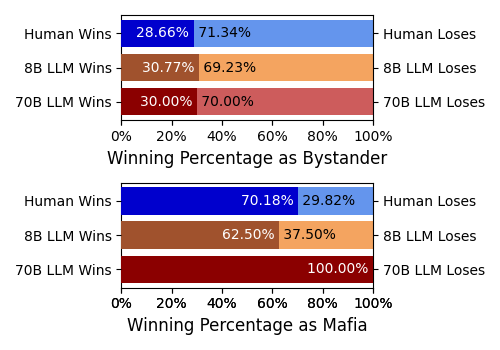
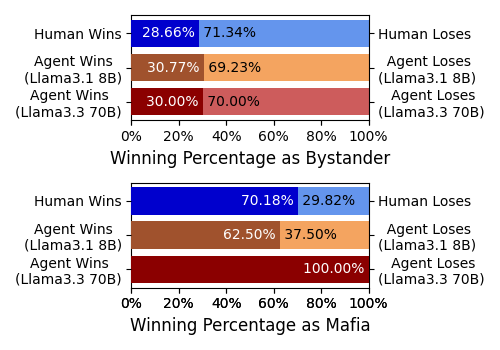
improved LLM agent references in plots

diff --git a/analyze.py b/analyze.py
@@ -818,10 +818,10 @@ def plot_timing_diffs_histogram(human_timing_diffs, llm_timing_diffs, title,
     max_x = max(human_timing_diffs + llm_timing_diffs)
     if plot_separately_by_base_models:
         classes = [("Human", human_timing_diffs, "blue"),
-                   ("8B LLM", llm_timing_diffs[:NUM_GAMES_WITH_8B_MODEL], "orange"),
-                   ("70B LLM", llm_timing_diffs[NUM_GAMES_WITH_8B_MODEL:], "red")]
+                   ("Agent (Llama3.1 8B)", llm_timing_diffs[:NUM_GAMES_WITH_8B_MODEL], "orange"),
+                   ("Agent (Llama3.3 70B)", llm_timing_diffs[NUM_GAMES_WITH_8B_MODEL:], "red")]
     else:
-        classes = [("Human", human_timing_diffs, "blue"), ("LLM", llm_timing_diffs, "red")]
+        classes = [("Human", human_timing_diffs, "blue"), ("Agent", llm_timing_diffs, "red")]
     for player_type, timing_diffs, color in classes:
         # plt.hist(timing_diffs, density=True, bins=20, alpha=0.5, color=color,
         #          label=fr"{player_type} $(\mu = {np.mean(timing_diffs):.2f}, "
@@ -970,36 +970,36 @@ def plot_percentage_bars_chart(did_llm_win, is_llm_mafia,
     if plot_separately_by_base_models:
         false_classes = [
             ("Human Loses\nas Bystander", human_false_color),
-            ("8B LLM Loses\nas Bystander", small_llm_false_color),
-            ("70B LLM Loses\nas Bystander", llm_false_color),
+            ("  Agent Loses\n(Llama3.1 8B)\nas Bystander", small_llm_false_color),
+            ("   Agent Loses\n(Llama3.3 70B)\nas Bystander", llm_false_color),
             ("Human Loses\nas Mafia", human_false_color),
-            ("8B LLM Loses\nas Mafia", small_llm_false_color),
-            ("70B LLM Loses\nas Mafia", llm_false_color)
+            ("  Agent Loses\n(Llama3.1 8B)\nas Mafia", small_llm_false_color),
+            ("   Agent Loses\n(Llama3.3 70B)\nas Mafia", llm_false_color)
         ]
         true_classes = [
             ("Human Wins\nas Bystander", did_human_win_as_bystander, human_true_color),
-            ("8B LLM Wins\nas Bystander", did_small_llm_win_as_bystander, small_llm_true_color),
-            ("70B LLM Wins\nas Bystander", did_large_llm_win_as_bystander, llm_true_color),
+            ("Agent Wins  \n(Llama3.1 8B)\nas Bystander", did_small_llm_win_as_bystander, small_llm_true_color),
+            ("Agent Wins   \n(Llama3.3 70B)\nas Bystander", did_large_llm_win_as_bystander, llm_true_color),
             ("Human Wins\nas Mafia", did_human_win_as_mafia, human_true_color),
-            ("8B LLM Wins\nas Mafia", did_small_llm_win_as_mafia, small_llm_true_color),
-            ("70B LLM Wins\nas Mafia", did_large_llm_win_as_mafia, llm_true_color),
+            ("Agent Wins  \n(Llama3.1 8B)\nas Mafia", did_small_llm_win_as_mafia, small_llm_true_color),
+            ("Agent Wins   \n(Llama3.3 70B)\nas Mafia", did_large_llm_win_as_mafia, llm_true_color),
         ]
     else:
         false_classes = [
             # ("Human Loses", human_false_color),
-            # ("LLM Loses", llm_false_color),
+            # ("Agent Loses", llm_false_color),
             ("Human Loses\nas Bystander", human_false_color),
-            ("LLM Loses\nas Bystander", llm_false_color),
+            ("Agent Loses\nas Bystander", llm_false_color),
             ("Human Loses\nas Mafia", human_false_color),
-            ("LLM Loses\nas Mafia", llm_false_color)
+            ("Agent Loses\nas Mafia", llm_false_color)
         ]
         true_classes = [
             # ("Human Wins", did_human_win_as_mafia + did_human_win_as_bystander, human_true_color),
             # ("LLM Wins", did_llm_win, llm_true_color),
             ("Human Wins\nas Bystander", did_human_win_as_bystander, human_true_color),
-            ("LLM Wins\nas Bystander", did_llm_win_as_bystander, llm_true_color),
+            ("Agent Wins\nas Bystander", did_llm_win_as_bystander, llm_true_color),
             ("Human Wins\nas Mafia", did_human_win_as_mafia, human_true_color),
-            ("LLM Wins\nas Mafia", did_llm_win_as_mafia, llm_true_color),
+            ("Agent Wins\nas Mafia", did_llm_win_as_mafia, llm_true_color),
         ]
 
     if plot_separately_by_role:
